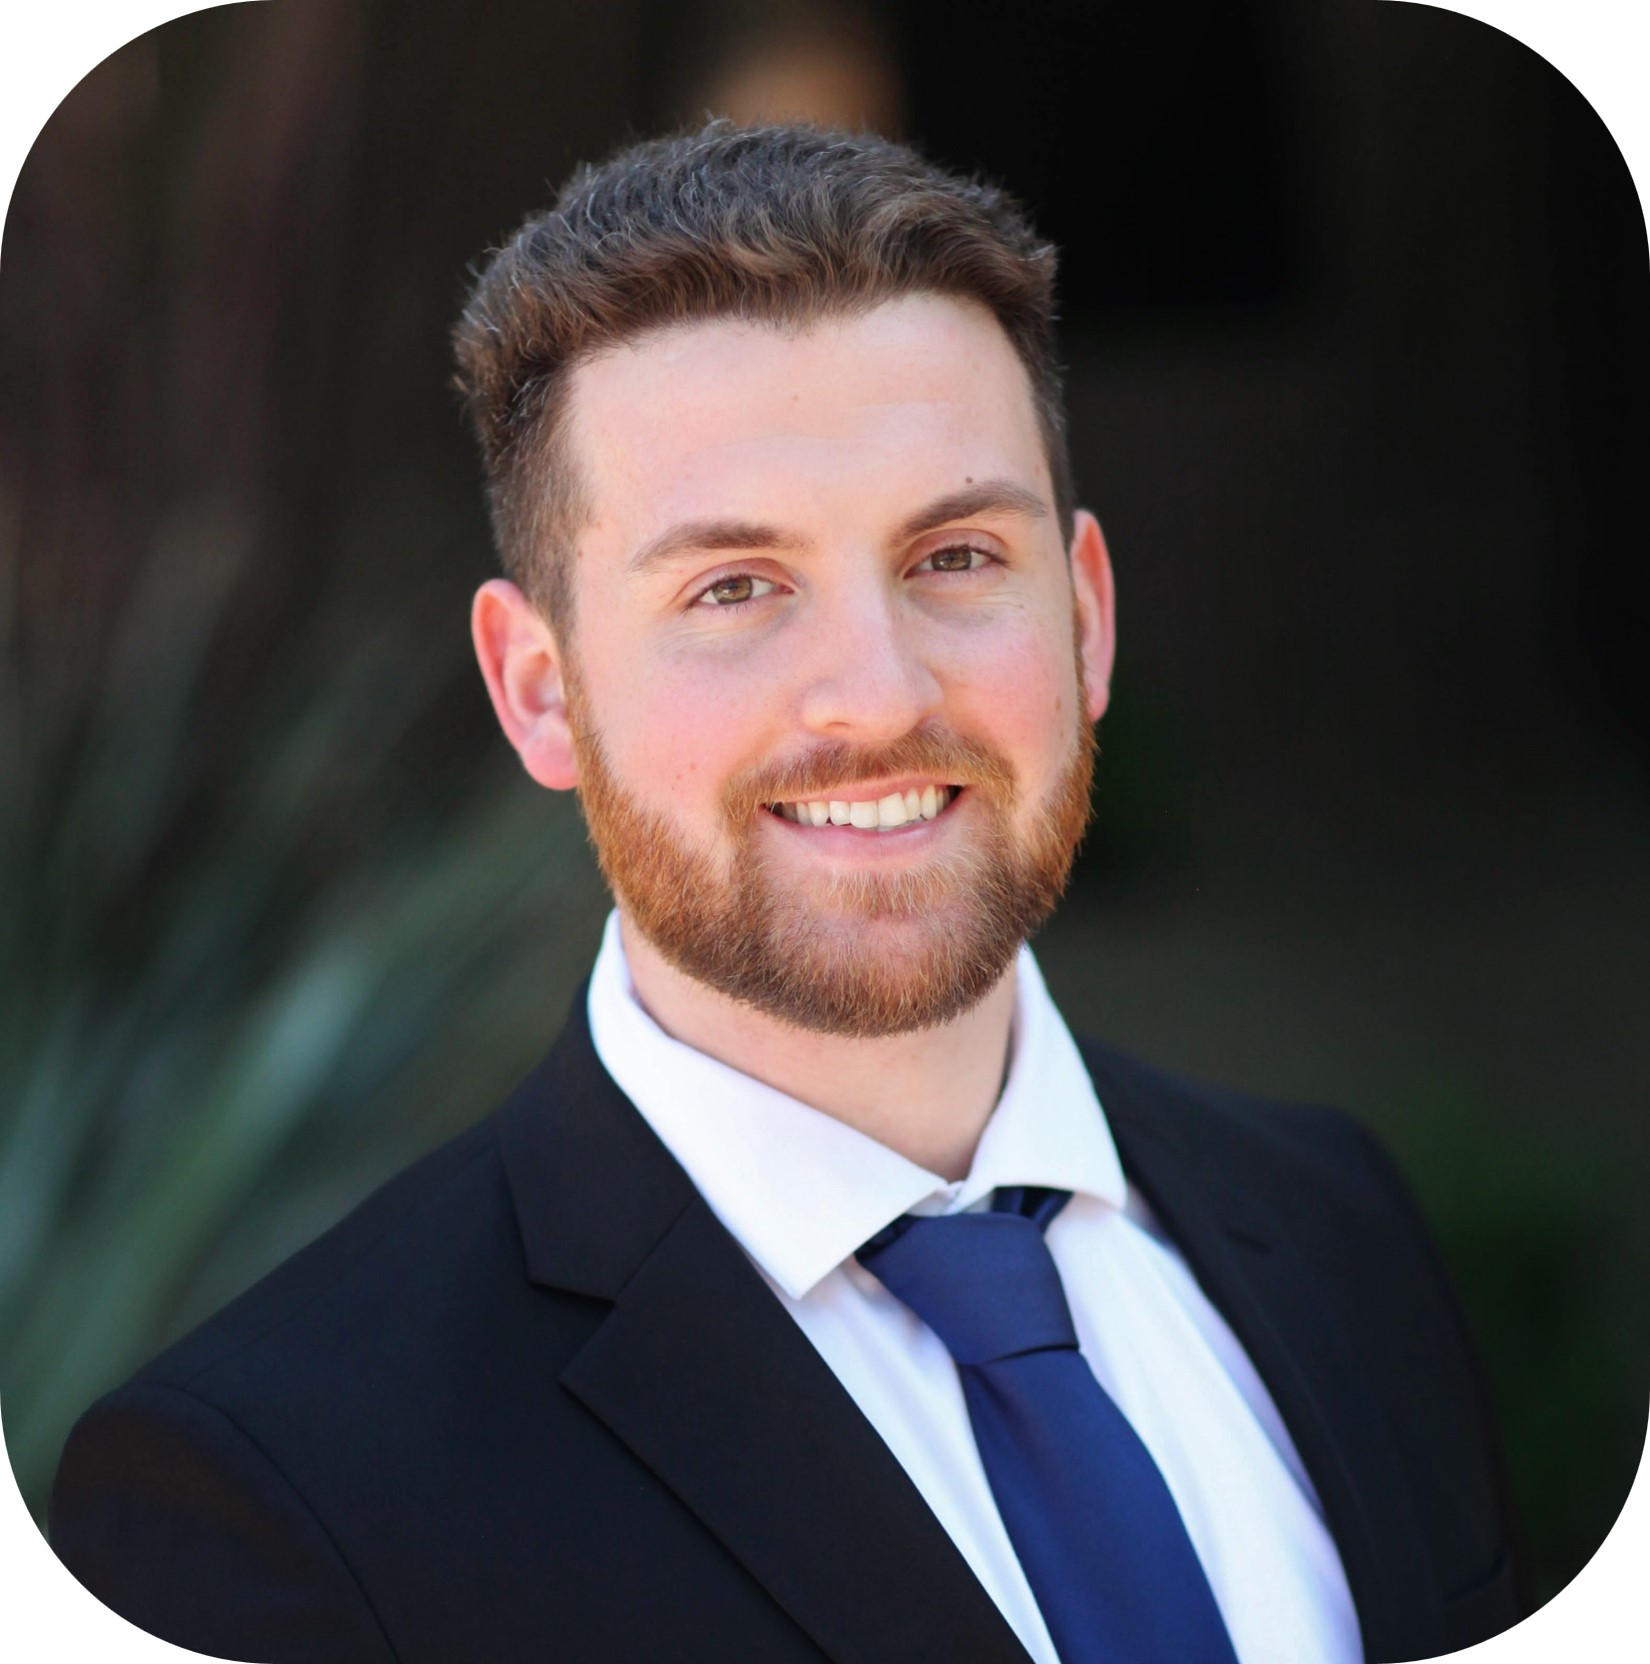
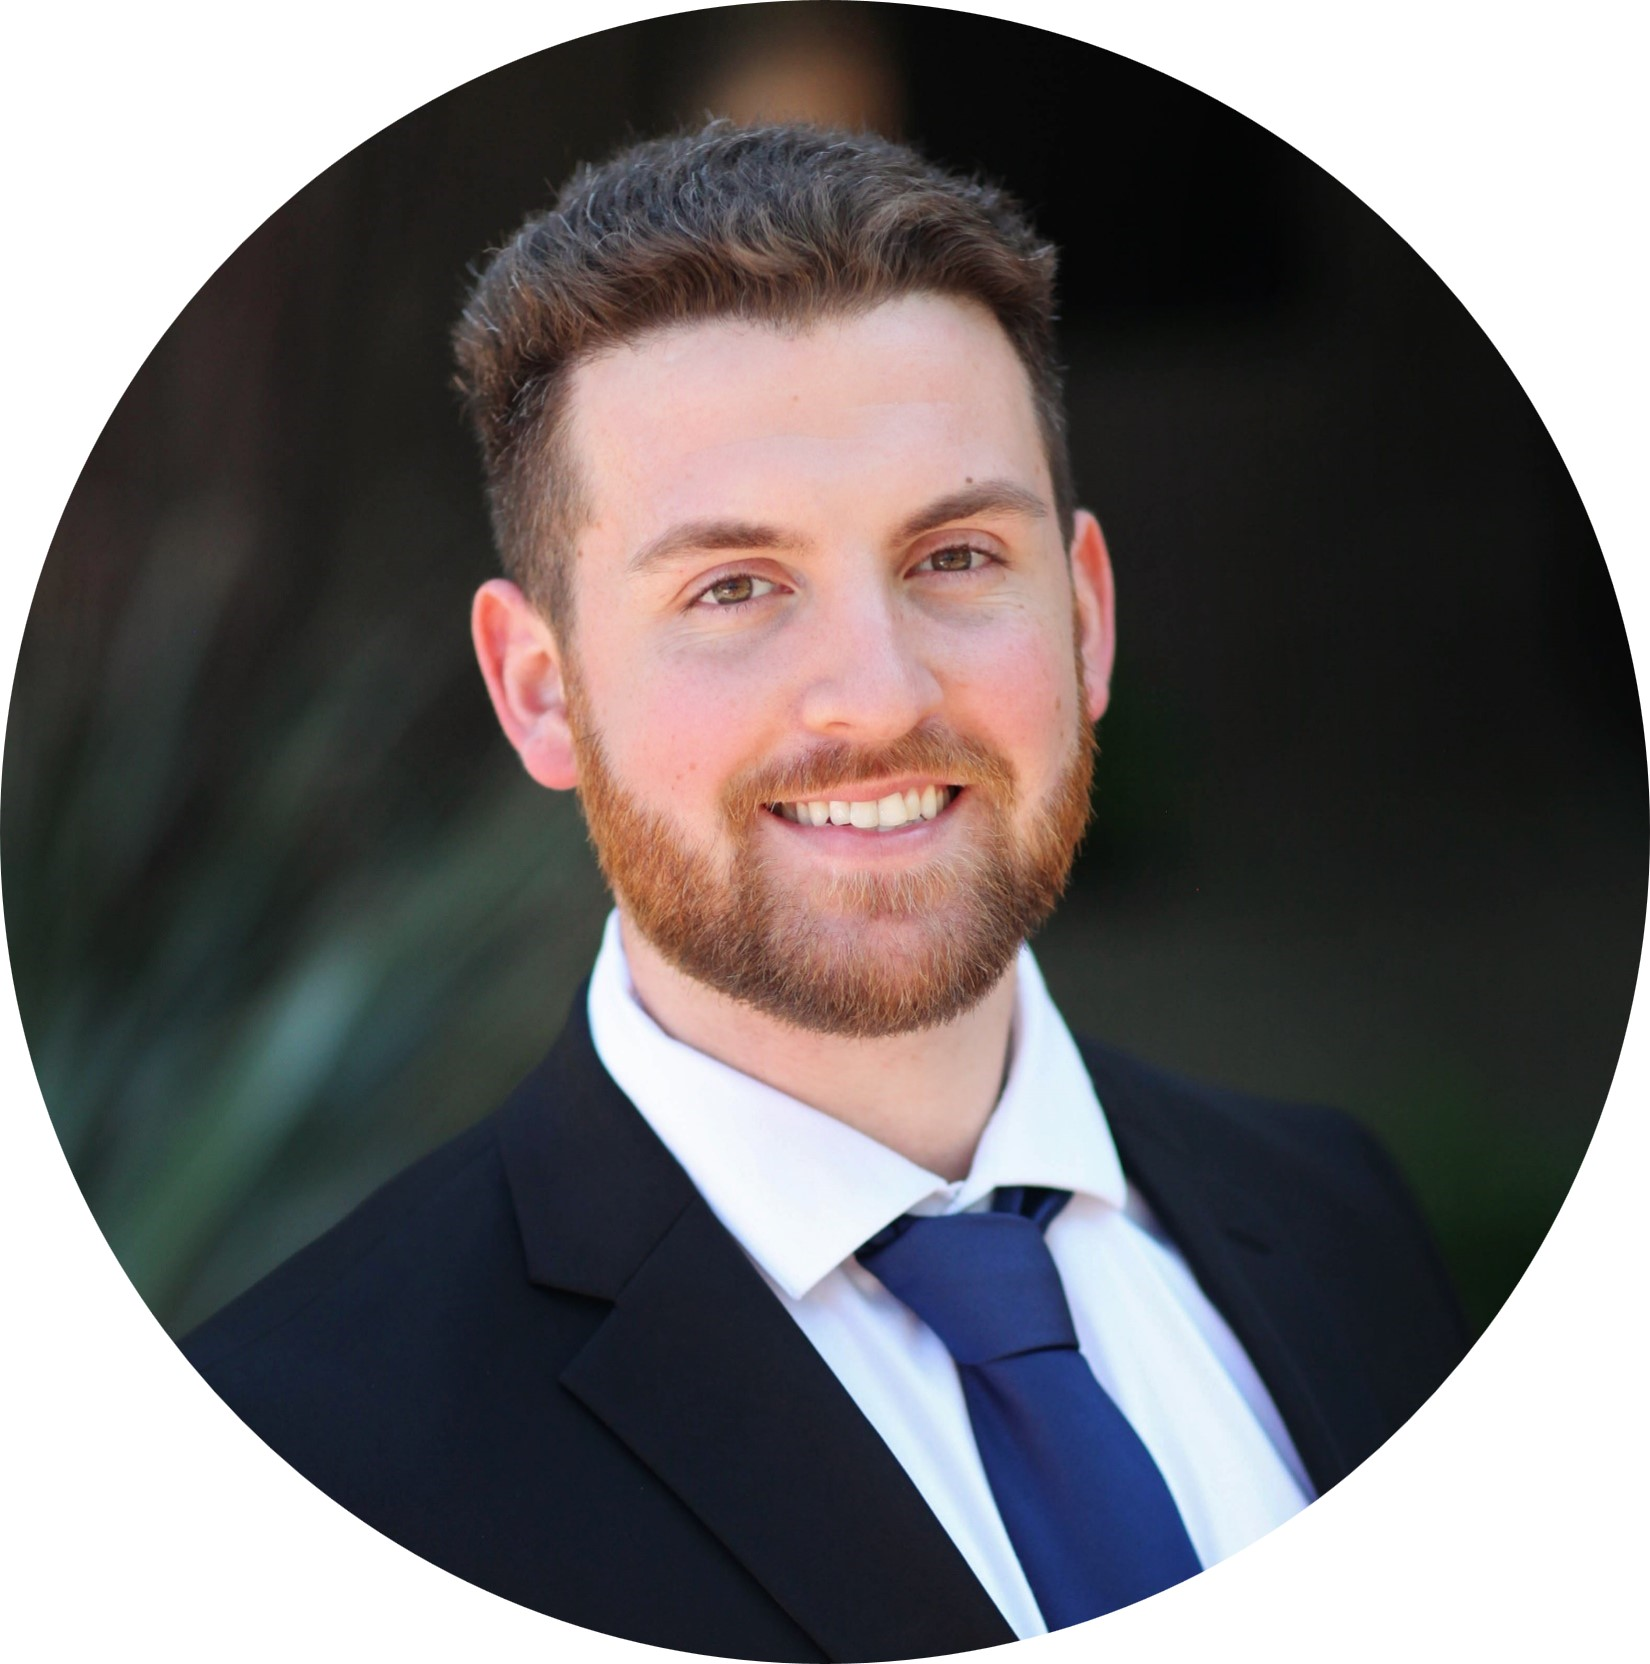
update profile img to circular and add margin to languages

diff --git a/assets/styles.css b/assets/styles.css
@@ -72,9 +72,10 @@ header h2 {
         padding-top: 15px;
         font-weight: bold;
     }
-.card img {
+.brandon {
     padding-top: 10px;
     padding-bottom: 10px;
+    max-width: 200px;
 }
 .profile-name {
     font-family: sans-serif;
@@ -90,6 +91,8 @@ header h2 {
     /* padding: 0 20px 20px 20px; */
     justify-content: space-between;
     flex-wrap: wrap;
+    margin-left: 20px;
+    margin-right: 20px;
 }
 .languages-text h2 {
     font-family: sans-serif;

diff --git a/index.html b/index.html
@@ -27,7 +27,7 @@
 
 <section class="card">
     <div class="profile-side">
-        <img src="./images/brandon.jpg" alt="" style="max-width: 200px; border-radius: 25px">
+        <img src="./images/brandon.jpg" alt="" class="brandon">
     </div>
     <div class="profile-text">
         <h2 class="profile-name">About Me<hr></h2> 
